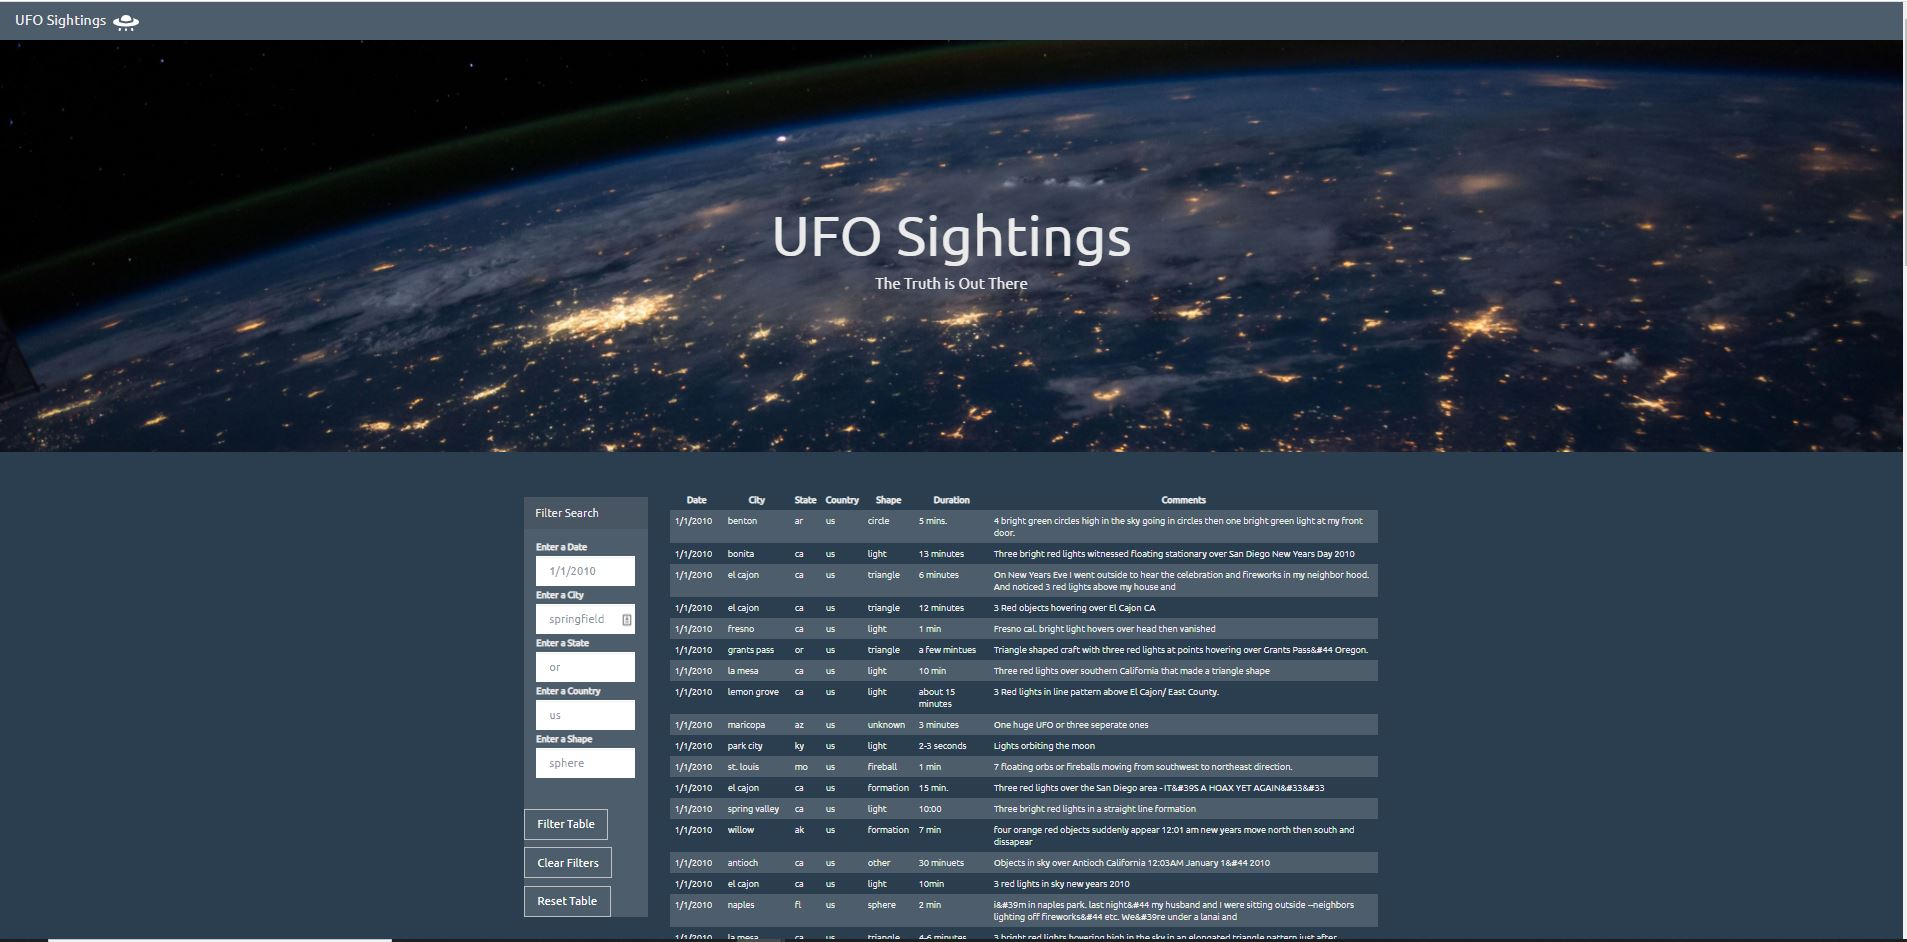
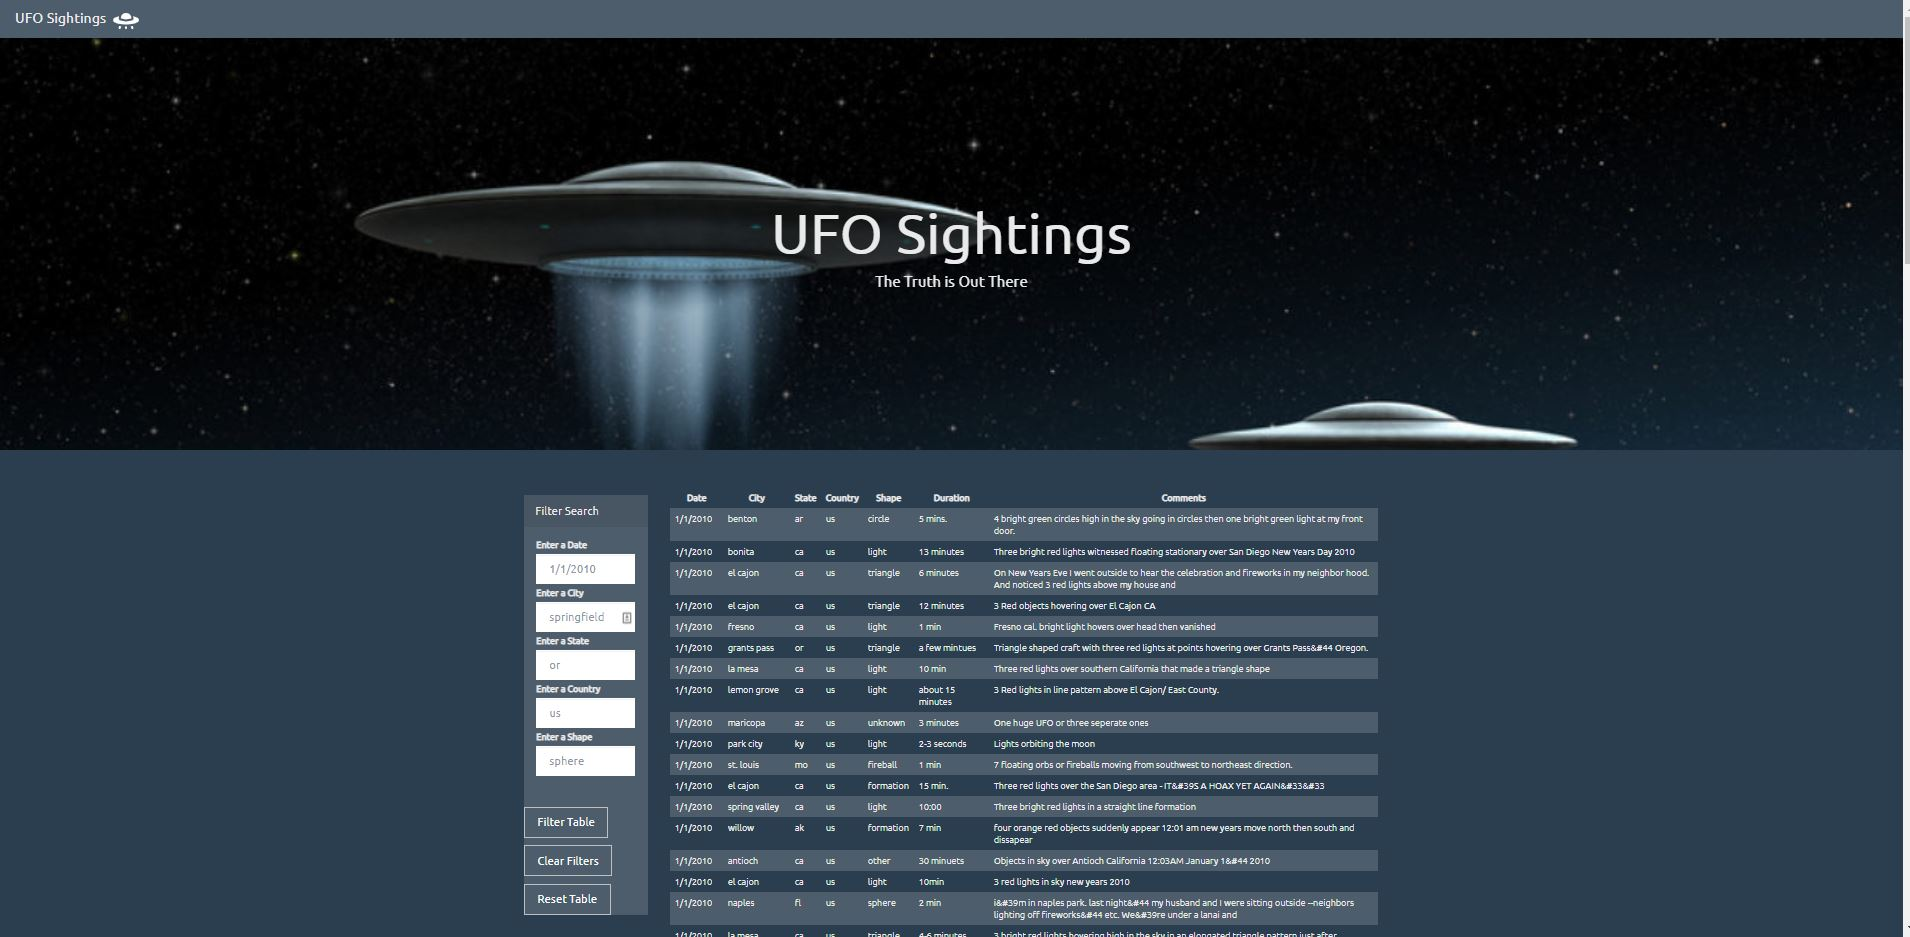
updating readme and images

diff --git a/UFO-level-1/static/css/style.css b/UFO-level-1/static/css/style.css
@@ -98,7 +98,7 @@ select {
   padding: 20px;
   margin: 0;
   background: black;
-  background-image: url("../images/nasa.jpg");
+  background-image: url("../images/ufo_picture_3.jpg");
   background-attachment: fixed;
   background-position: bottom center;
   background-size: cover;

diff --git a/UFO-level-2/static/css/style.css b/UFO-level-2/static/css/style.css
@@ -98,7 +98,7 @@ select {
   padding: 20px;
   margin: 0;
   background: black;
-  background-image: url("../images/nasa.jpg");
+  background-image: url("../images/ufo_picture_3.jpg");
   background-attachment: fixed;
   background-position: bottom center;
   background-size: cover;
